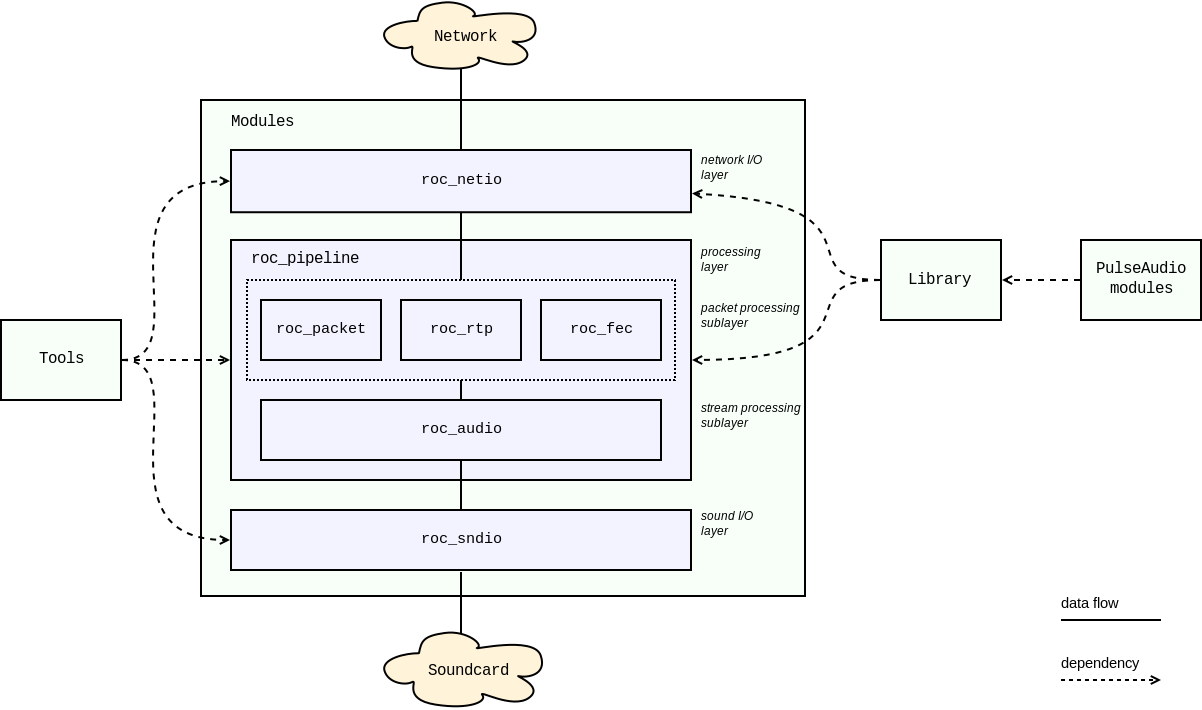
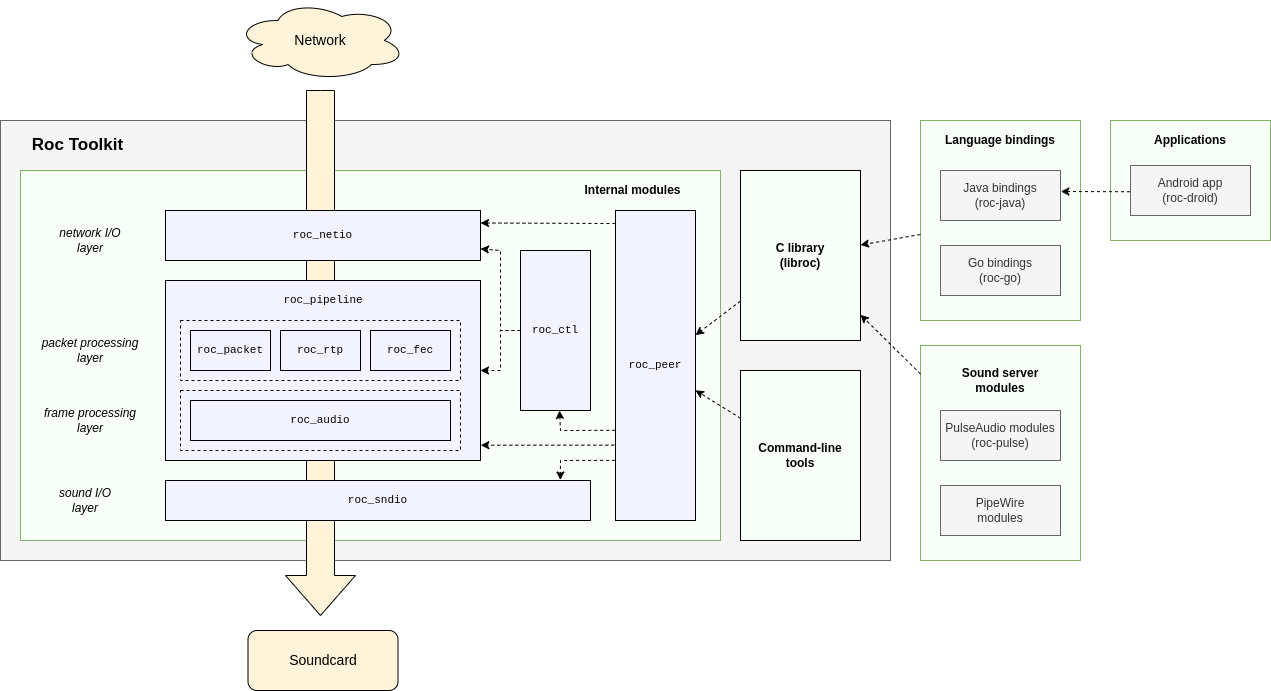
Update sphinx

diff --git a/docs/sphinx/tools/sound_server_modules.rst b/docs/sphinx/tools/sound_server_modules.rst
@@ -1,0 +1,40 @@
+Sound server modules
+********************
+
+PulseAudio modules
+==================
+
+`roc-pulse <https://github.com/roc-streaming/roc-pulse>`_ repo implements Roc PulseAudio modules.
+
+========================= ====================================================================
+Module                    Description
+========================= ====================================================================
+``module-roc-sink-input`` receives audio from network, can be connected to local audio device
+``module-roc-sink``       sends audio to network, local audio apps can be connected to it
+========================= ====================================================================
+
+Highlights:
+
+* Compared to command-line tools, these modules better integrate with PulseAudio. You can connect roc receiver or sender to local device or app via usual PulseAudio GUI and CLI tools, for example ``pavucontrol``.
+
+* Compared to builtin PulseAudio network transports ("native" and "rtp"), Roc modules provide better service quality (less losses and glitches) over unreliable networks like Wi-Fi.
+
+* Compared to builtin PulseAudio network transports, Roc modules allow you to interconnect different systems. They are fully interoperable with other Roc receivers and senders based on libroc, e.g. Roc :doc:`command-line tools </tools/command_line_tools>` or :doc:`applications </tools/applications>`.
+
+.. note::
+
+   In previous releases, PulseAudio modules were part of ``roc-toolkit`` repo. Now they live in separate repo and have independent build system, documentation, and versioning.
+
+PipeWire modules
+================
+
+PipeWire provides two Roc modules.
+
+===================================================================== ====================================================================
+Module                                                                Description
+===================================================================== ====================================================================
+`roc-source <https://docs.pipewire.org/page_module_roc_source.html>`_ receives audio from network, can be connected to local audio device
+`roc-sink <https://docs.pipewire.org/page_module_roc_sink.html>`_     sends audio to network, local audio apps can be connected to it
+===================================================================== ====================================================================
+
+The idea is similar to Roc PulseAudio modules. Unlike PulseAudio modules, PipeWire modules are not part of Roc, but are provided by PipeWire itself.

diff --git a/docs/sphinx/internals/code_structure.rst b/docs/sphinx/internals/code_structure.rst
@@ -8,19 +8,33 @@ Code structure
 Overview
 ========
 
-Roc Toolkit consists of the following high-level components:
+`Roc Toolkit <https://github.com/roc-streaming/roc-toolkit>`_ consists of the following high-level components:
 
-* **Modules**
+* **Internal modules**
 
-  Internal C++ libraries. Other components are based on them. See `Doxygen documentation <https://roc-streaming.org/toolkit/doxygen/>`_ for details.
+  Internal C++ libraries, not part of public API. Basic building blocks for library and tools. See `Doxygen documentation <https://roc-streaming.org/toolkit/doxygen/>`_ for details.
 
-* **Library**
+* **C library**
 
-  Public C API (libroc). A stable (not yet) interface for running Roc network sender and receiver. See :doc:`/api` page.
+  Public C API (libroc) for C and C++ applications. See :doc:`/api` page.
 
-* **Tools**
+* **Command-line tools**
 
-  Command-line tools. A command-line interface for running Roc network sender and receiver, plus performing sound I/O, plus setting some debugging options. See :doc:`/tools/command_line_tools` page.
+  Command-line tools for developers and advanced users. See :doc:`/tools/command_line_tools` page.
+
+Besides toolkit, `Roc Streaming <https://github.com/roc-streaming>`_ project provides some software on top of it:
+
+* **Language bindings**
+
+  Library bindings for other programming languages. See :doc:`/api/bindings` page.
+
+* **Sound server modules**
+
+  Modules for OS-specific sound servers, like PulseAudio and PipeWire. See :doc:`/tools/sound_server_modules` page.
+
+* **Applications**
+
+  Desktop and mobile apps for end-users. See :doc:`/tools/applications` page.
 
 .. image:: ../_images/components.png
     :align: center

diff --git a/docs/sphinx/tools/applications.rst b/docs/sphinx/tools/applications.rst
@@ -1,0 +1,12 @@
+Applications
+************
+
+Roc Droid
+=========
+
+`Roc Droid <https://github.com/roc-streaming/roc-droid/>`_ is a proof-of-concept app for Android that can:
+
+* receive audio from network and play to local audio device
+* capture audio from apps or microphone and send to network
+
+The app is fully interoperable with other Roc receivers and senders based on libroc, including Roc :doc:`command-line tools </tools/command_line_tools>` and :doc:`sound server modules </tools/sound_server_modules>`. The app is based on Roc `JNI bindings <https://github.com/roc-streaming/roc-java/>`_.

diff --git a/docs/sphinx/about_project/features.rst b/docs/sphinx/about_project/features.rst
@@ -55,7 +55,7 @@ Protocols and encodings
 API and tools
 =============
 
-.. seealso:: :doc:`/api`, :doc:`/tools/command_line_tools`, :doc:`/tools/pulseaudio_modules`, :doc:`/tools/pipewire_modules`, :doc:`/tools/android_app`
+.. seealso:: :doc:`/api`, :doc:`/tools/command_line_tools`, :doc:`/tools/sound_server_modules`, :doc:`/tools/applications`
 
 * transport API
 

diff --git a/docs/sphinx/tools.rst b/docs/sphinx/tools.rst
@@ -5,6 +5,5 @@ Tools
    :maxdepth: 1
 
    tools/command_line_tools
-   tools/pulseaudio_modules
-   tools/pipewire_modules
-   tools/android_app
+   tools/sound_server_modules
+   tools/applications
